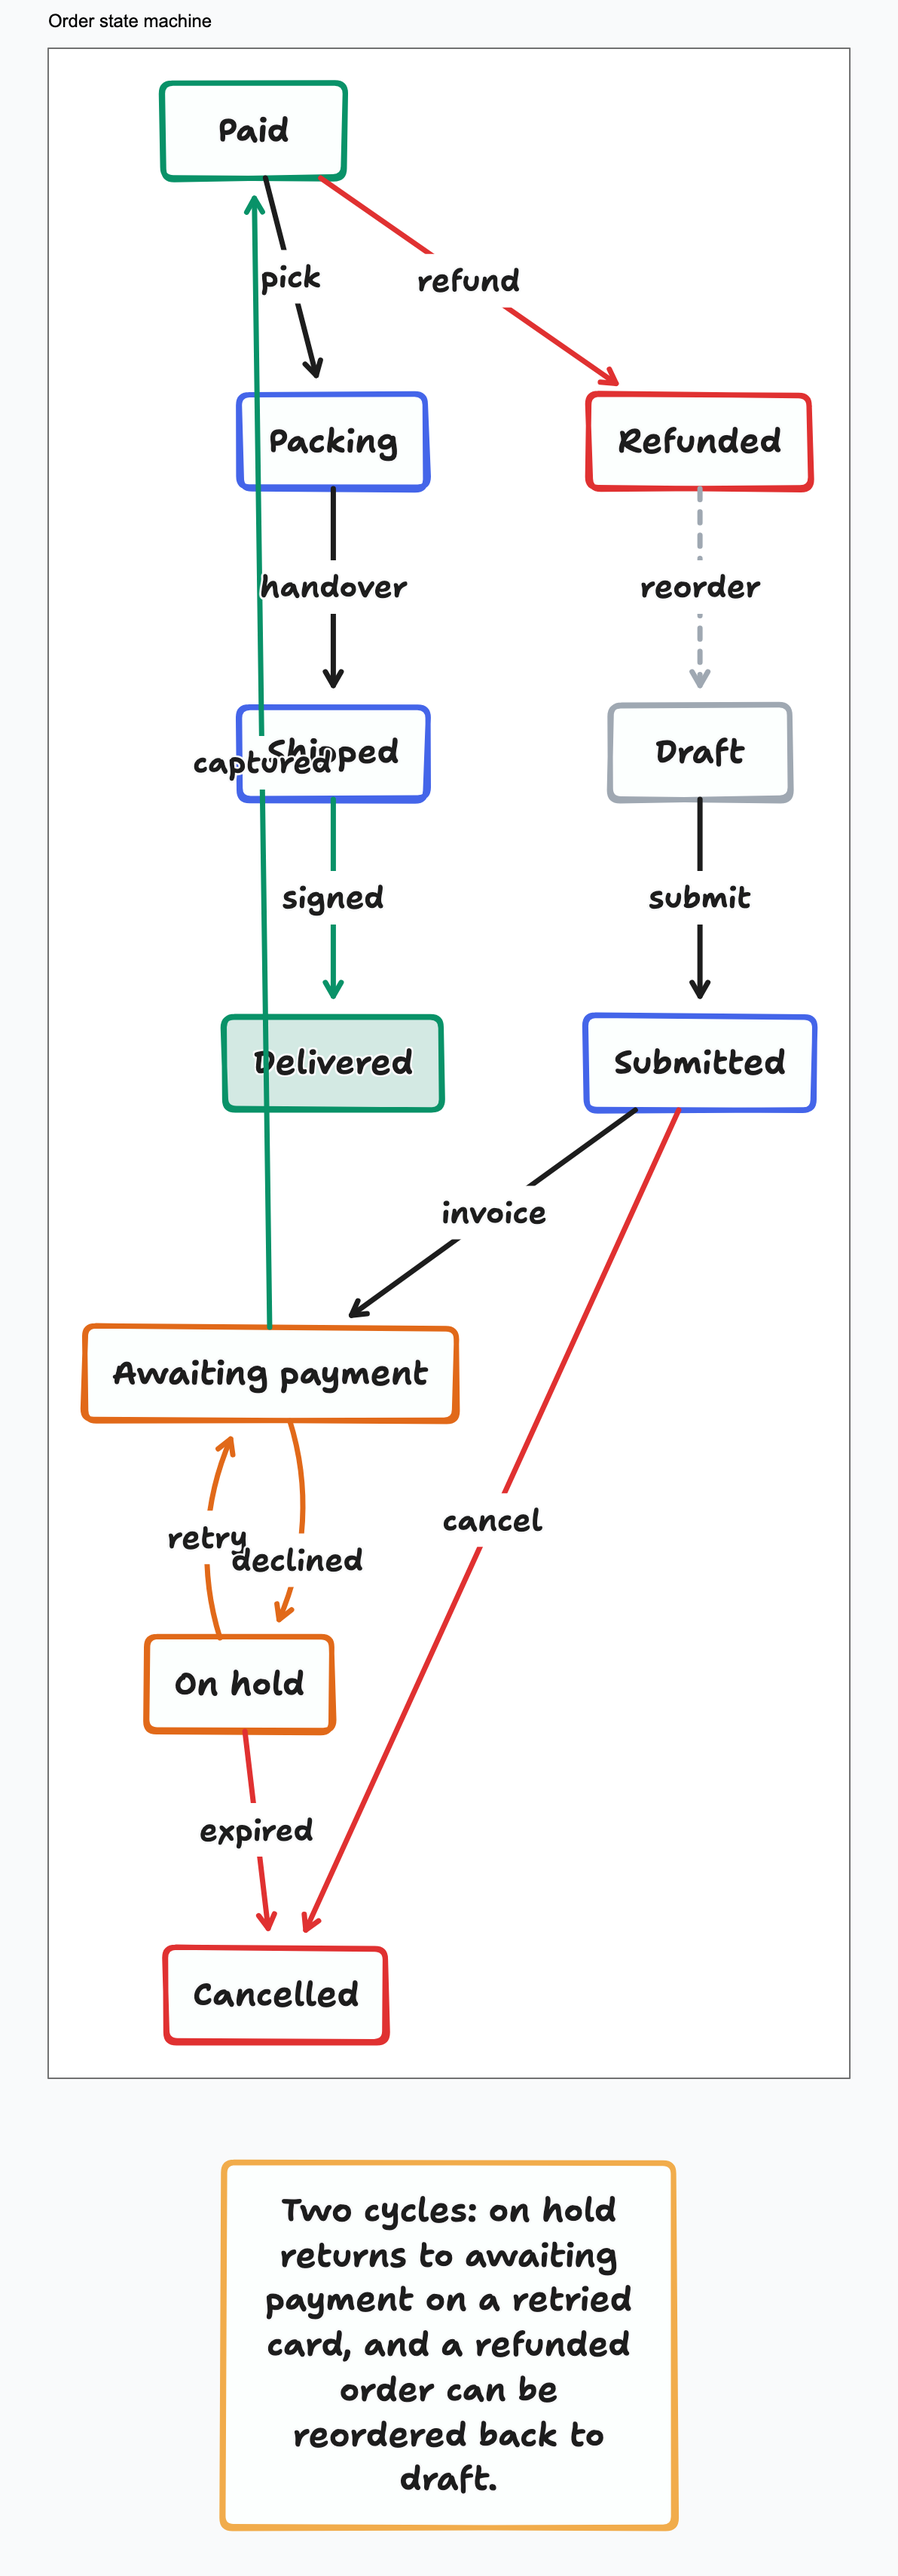
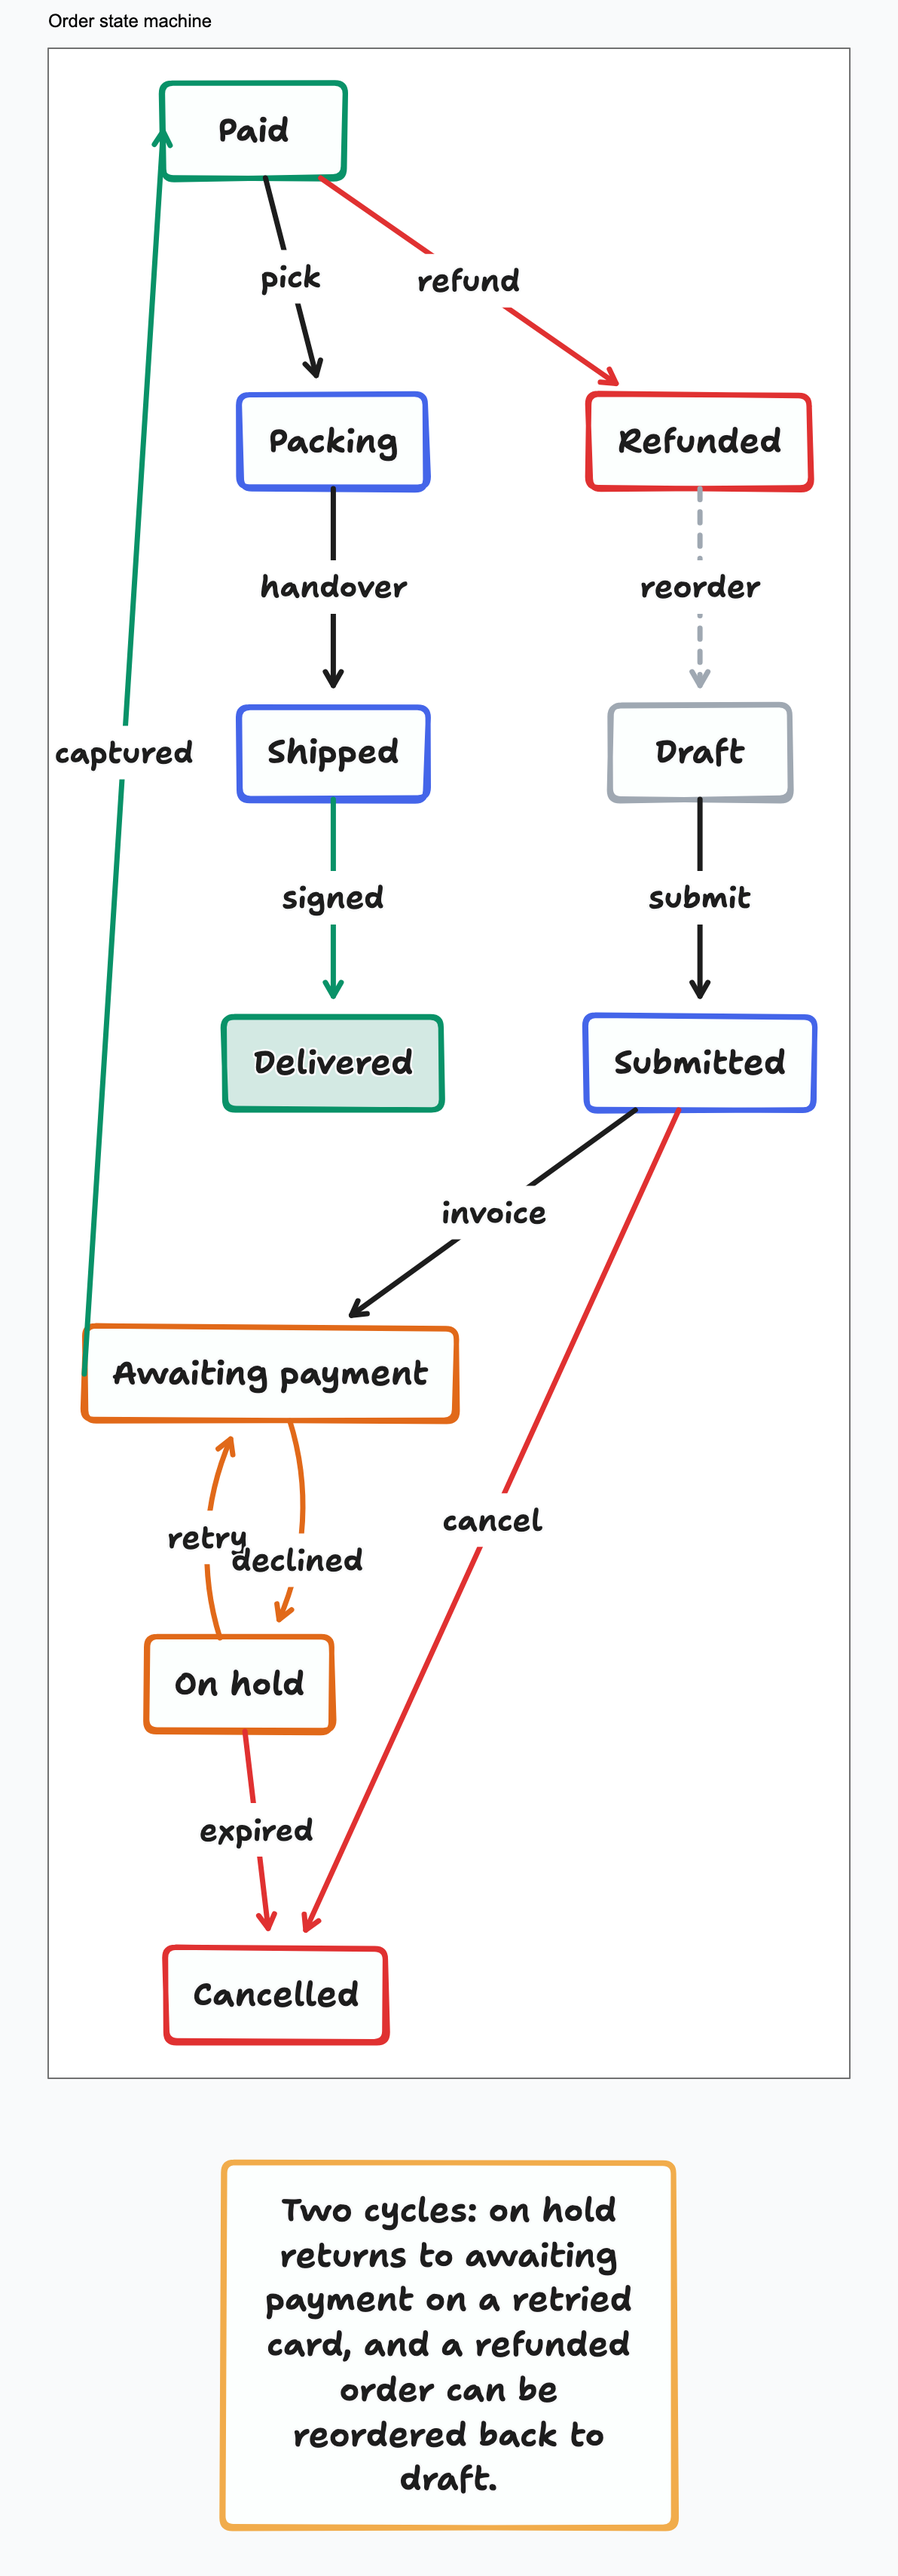
routing: a cross-container edge bows around what it used to drive through
An edge whose endpoints share no layout axis had no route at all - the
lane pass derives its axis from overlapping perpendicular bands, gets
null for a diagonal, and the arrow stayed a centre-to-centre chord. That
is 33 of the 43 arrow-vs-shape crossings across the corpus, including
`notify -> commit`'s 1,100px line through `Staging smoke tests`.

`detourAroundObstacles` takes what the earlier passes left: grow a bend
on each side until the arc clears every box and note between the two
endpoints, keep the smaller. The hit test models the circular arc tldraw
actually renders rather than the parabola `boxAt` approximates it with -
at these bends the two differ by more than the clearance margin.

The trigger is "the straight chord already runs through something", not
length or direction, which is what D21's own correction asked for: a
159px `rollback -> deploy-prod` crosses nothing, so it stays a straight
hop.

Also stop dropping a lane route's face anchors when its sag rounds below
tldraw's minimum bend. Those anchors are what lifts a row skip off the
boxes in between; without them `a -> d` in an auto container fell back to
centre bindings and drew straight through. That is D8's routing half.

Corpus + examples, 23 files: crossings 43 -> 29, label-over-shape 7 -> 5,
label-over-label 7 -> 6, crowded pairs 2 -> 2. No file rises on any
counter. Four corpus renders moved and are regenerated.

Changed region(s): [[0.0621, 0.0621, 0.3725, 0.5275], [0.0931, 0.3724, 0.1242, 0.5275], [0.1552, 0.0621, 0.1862, 0.1862]]

diff --git a/src/domain/layout/routing.ts b/src/domain/layout/routing.ts
@@ -19,6 +19,13 @@
  * different amounts instead of stacking into one stroke, the longest chord
  * taking the outermost lane. A lane's extra sag is dropped a step at a time
  * if it isn't viable (would bow into a neighbouring shape).
+ *
+ * An edge whose endpoints share no layout axis at all - the cross-container
+ * case - has no lane and no side to reason about, so `detourAroundObstacles`
+ * takes what the earlier passes left: it grows a bend on each side until the
+ * arc tldraw would actually draw clears every box and note between the two
+ * endpoints, and keeps the smaller of the two. An edge whose straight chord
+ * is already clear gets nothing, so short hops stay straight lines.
  */
 
 import type { IRDocPositioned, IREdge, IRElementPositioned } from "../ir/index.js";
@@ -99,11 +106,12 @@ export function computeEdgeRoutes(ir: IRDocPositioned): Map<string, EdgeRoute> {
   const rankOf = assignLanes(candidates);
 
   for (const candidate of candidates) {
-    const route = finalizeRoute(candidate, rankOf.get(candidate.edgeId) ?? 0);
-    if (route !== null) routes.set(candidate.edgeId, route);
+    routes.set(candidate.edgeId, finalizeRoute(candidate, rankOf.get(candidate.edgeId) ?? 0));
   }
 
   fanSharedPairs(otherEdges, byId, routes);
+
+  detourAroundObstacles(otherEdges, byId, shapes, routes);
 
   placeLabels(edges, byId, shapes, routes);
 
@@ -266,6 +274,194 @@ function fanSharedPairs(
   }
 }
 
+/** Clearance an obstacle-avoiding detour keeps between the arc and the box it swings around. */
+const DETOUR_MARGIN = 20;
+/** Minimum growth per attempt, so the search always makes progress. */
+const DETOUR_STEP = 24;
+const DETOUR_MAX_ROUNDS = 12;
+/** Points sampled along the arc when testing it against a box. */
+const DETOUR_SAMPLES = 48;
+
+/**
+ * Last resort for an edge no earlier pass claimed: if its straight chord runs
+ * through boxes it does not connect - the cross-container case of `docs/
+ * diagram-defects.md` D21, where the two endpoints share no layout axis and
+ * `computeCandidate` therefore has nothing to work with - bow it around them.
+ *
+ * Both sides are tried and the smaller detour wins; an edge whose chord is
+ * already clear (every short hop, and every long one that happens to run
+ * through empty space) is left alone, which is what keeps a 159px backwards
+ * hop a straight line. The arc is modelled as the circle tldraw actually
+ * draws through the two shape centres, not the parabola `boxAt` approximates
+ * it with, because at these bends the two differ by more than the margin.
+ */
+function detourAroundObstacles(
+  edges: IREdge[],
+  byId: Map<string, AbsShape>,
+  shapes: AbsShape[],
+  routes: Map<string, EdgeRoute>,
+): void {
+  const blockerPool = shapes.filter((s) => s.kind === "box" || s.kind === "note");
+
+  for (const edge of edges) {
+    if (routes.has(edge.id)) continue;
+    const from = byId.get(edge.from);
+    const to = byId.get(edge.to);
+    if (!from || !to) continue;
+
+    const start = centreOf(from);
+    const end = centreOf(to);
+    const blockers = blockerPool.filter((s) => s.id !== from.id && s.id !== to.id);
+    const straight = arcPolyline(start, end, 0);
+    if (!blockers.some((b) => polylineHitsBox(straight, b))) continue;
+
+    const bend = solveDetour(start, end, blockers);
+    if (bend !== null) routes.set(edge.id, { bend });
+  }
+}
+
+/** Smallest signed bend that clears every blocker, or null if neither side converges. */
+function solveDetour(start: Point, end: Point, blockers: AbsShape[]): number | null {
+  const cap = Math.hypot(end.x - start.x, end.y - start.y);
+  if (cap < 1) return null;
+
+  let best: number | null = null;
+  for (const sign of [1, -1] as const) {
+    let sag = 0;
+    let cleared = false;
+    for (let round = 0; round < DETOUR_MAX_ROUNDS; round++) {
+      const path = arcPolyline(start, end, sign * sag);
+      const hits = blockers.filter((b) => polylineHitsBox(path, b));
+      if (hits.length === 0) {
+        cleared = true;
+        break;
+      }
+      sag = Math.max(requiredDetourSag(start, end, sign, hits), sag + DETOUR_STEP);
+      if (sag > cap) break;
+    }
+    if (!cleared || sag < MIN_BEND) continue;
+    if (best === null || sag < Math.abs(best)) best = sign * sag;
+  }
+  return best === null ? null : round1(best);
+}
+
+/**
+ * Parabola estimate of the sag needed to put every corner of `hits` (inflated
+ * by the margin) on the inside of the arc. tldraw's circular arc bulges
+ * further from the chord than the parabola does at every `t`, so this is a
+ * lower bound the real arc always beats - the caller re-tests and grows again.
+ */
+function requiredDetourSag(start: Point, end: Point, sign: 1 | -1, hits: AbsShape[]): number {
+  const u = unit(start, end);
+  const perp: Point = { x: -u.y, y: u.x };
+  const len = Math.hypot(end.x - start.x, end.y - start.y);
+
+  let need = 0;
+  for (const s of hits) {
+    const xs = [s.x - DETOUR_MARGIN, s.x + s.w + DETOUR_MARGIN];
+    const ys = [s.y - DETOUR_MARGIN, s.y + s.h + DETOUR_MARGIN];
+    for (const cx of xs) {
+      for (const cy of ys) {
+        const dx = cx - start.x;
+        const dy = cy - start.y;
+        const off = (dx * perp.x + dy * perp.y) * sign;
+        if (off <= 0) continue;
+        const raw = (dx * u.x + dy * u.y) / len;
+        const t = Math.min(0.95, Math.max(0.05, raw));
+        need = Math.max(need, off / (4 * t * (1 - t)));
+      }
+    }
+  }
+  return need;
+}
+
+/** The arc `start -> end` with this bend, sampled as a polyline. */
+function arcPolyline(start: Point, end: Point, bend: number): Point[] {
+  const at = arcSampler(start, end, bend);
+  const points: Point[] = [];
+  for (let i = 0; i <= DETOUR_SAMPLES; i++) points.push(at(i / DETOUR_SAMPLES));
+  return points;
+}
+
+function polylineHitsBox(path: Point[], s: AbsShape): boolean {
+  for (let i = 1; i < path.length; i++) {
+    if (segmentHitsBox(path[i - 1]!, path[i]!, s)) return true;
+  }
+  return false;
+}
+
+/**
+ * `t -> point` along the circular arc tldraw renders for `bend` (the signed
+ * sagitta at the midpoint, measured along `(-u.y, u.x)`). Uniform in angle,
+ * which for a circle is uniform in arc length.
+ */
+function arcSampler(a: Point, b: Point, bend: number): (t: number) => Point {
+  const dx = b.x - a.x;
+  const dy = b.y - a.y;
+  const len = Math.hypot(dx, dy);
+  const lerp = (t: number): Point => ({ x: a.x + dx * t, y: a.y + dy * t });
+  if (len === 0 || Math.abs(bend) < 0.5) return lerp;
+
+  const perp: Point = { x: -dy / len, y: dx / len };
+  const radius = (len * len) / 4 / (2 * Math.abs(bend)) + Math.abs(bend) / 2;
+  const centre: Point = {
+    x: a.x + dx / 2 + perp.x * (bend - Math.sign(bend) * radius),
+    y: a.y + dy / 2 + perp.y * (bend - Math.sign(bend) * radius),
+  };
+  const a0 = Math.atan2(a.y - centre.y, a.x - centre.x);
+  const a1 = Math.atan2(b.y - centre.y, b.x - centre.x);
+  let delta = a1 - a0;
+  while (delta > Math.PI) delta -= 2 * Math.PI;
+  while (delta <= -Math.PI) delta += 2 * Math.PI;
+
+  // Two sweeps join the endpoints; keep the one that runs through the apex.
+  const apex: Point = { x: a.x + dx / 2 + perp.x * bend, y: a.y + dy / 2 + perp.y * bend };
+  const distToApex = (d: number): number => {
+    const ang = a0 + d / 2;
+    return Math.hypot(centre.x + radius * Math.cos(ang) - apex.x, centre.y + radius * Math.sin(ang) - apex.y);
+  };
+  const other = delta > 0 ? delta - 2 * Math.PI : delta + 2 * Math.PI;
+  const sweep = distToApex(other) < distToApex(delta) ? other : delta;
+
+  return (t: number) => {
+    const ang = a0 + sweep * t;
+    return { x: centre.x + radius * Math.cos(ang), y: centre.y + radius * Math.sin(ang) };
+  };
+}
+
+/** Liang-Barsky segment/rect clip - same rule `tools/arrow-truth.mts` counts crossings with. */
+function segmentHitsBox(p: Point, q: Point, s: AbsShape): boolean {
+  const dx = q.x - p.x;
+  const dy = q.y - p.y;
+  const checks: [number, number][] = [
+    [-dx, p.x - s.x],
+    [dx, s.x + s.w - p.x],
+    [-dy, p.y - s.y],
+    [dy, s.y + s.h - p.y],
+  ];
+  let t0 = 0;
+  let t1 = 1;
+  for (const [pk, qk] of checks) {
+    if (pk === 0) {
+      if (qk < 0) return false;
+      continue;
+    }
+    const r = qk / pk;
+    if (pk < 0) {
+      if (r > t1) return false;
+      if (r > t0) t0 = r;
+    } else {
+      if (r < t0) return false;
+      if (r < t1) t1 = r;
+    }
+  }
+  return t0 <= t1;
+}
+
+function centreOf(s: AbsShape): Point {
+  return { x: s.x + s.w / 2, y: s.y + s.h / 2 };
+}
+
 function assignLanes(candidates: RouteCandidate[]): Map<string, number> {
   const groups = new Map<string, RouteCandidate[]>();
   for (const c of candidates) {
@@ -299,7 +495,7 @@ function assignLanes(candidates: RouteCandidate[]): Map<string, number> {
   return rankOf;
 }
 
-function finalizeRoute(candidate: RouteCandidate, assignedRank: number): EdgeRoute | null {
+function finalizeRoute(candidate: RouteCandidate, assignedRank: number): EdgeRoute {
   const { axis, side, baseSag, gap, slack, startPoint, endPoint } = candidate;
 
   let rank = assignedRank;
@@ -313,11 +509,11 @@ function finalizeRoute(candidate: RouteCandidate, assignedRank: number): EdgeRou
   const sideDir = sideDirection(axis, side);
   const sign = p.x * sideDir.x + p.y * sideDir.y >= 0 ? 1 : -1;
 
+  // A sag under tldraw's MIN_ARROW_BEND renders straight, but the face anchors
+  // still matter: they are what lifts the chord off the boxes in between.
   const bend = round1(sag * sign);
-  if (Math.abs(bend) < MIN_BEND) return null;
-
   const anchor = normalizedAnchor(axis, side);
-  return { bend, startAnchor: anchor, endAnchor: { ...anchor } };
+  return { bend: Math.abs(bend) < MIN_BEND ? 0 : bend, startAnchor: anchor, endAnchor: { ...anchor } };
 }
 
 function collect(ir: IRDocPositioned): { shapes: AbsShape[]; edges: IREdge[] } {

diff --git a/src/domain/layout/routing.test.ts b/src/domain/layout/routing.test.ts
@@ -105,20 +105,25 @@ describe("computeEdgeRoutes", () => {
     expect(routes.get("ab")).toBeUndefined();
   });
 
-  it("stays straight when boxed in on both sides (no viable side)", () => {
+  it("swings wide when the lane pass finds no viable side", () => {
     const ir = doc("root", [
       box({ id: "a", x: 0, y: 0, w: 100, h: 50 }),
       box({ id: "b", x: 150, y: 0, w: 100, h: 50 }),
       box({ id: "c", x: 300, y: 0, w: 100, h: 50 }),
       box({ id: "d", x: 450, y: 0, w: 100, h: 50 }),
       // Squeezed in just above and below the row - not enough clearance
-      // for the 13.5 sag the chord over b/c would otherwise need.
+      // for the 13.5 sag the chord over b/c would otherwise need, so the
+      // lane pass declines and the detour pass bows right past them.
       box({ id: "top", x: 200, y: -30, w: 50, h: 20 }),
       box({ id: "bottom", x: 200, y: 60, w: 50, h: 20 }),
       edge({ id: "ad", from: "a", to: "d" }),
     ]);
     const routes = computeEdgeRoutes(ir);
-    expect(routes.get("ad")).toBeUndefined();
+    const route = routes.get("ad");
+    expect(route).toBeDefined();
+    // Past `bottom`'s far edge (y 80) rather than the 13.5 the row alone wanted.
+    expect(Math.abs(route!.bend)).toBeGreaterThan(60);
+    expect(route!.startAnchor).toBeUndefined();
   });
 
   it("signed clearance ignores a crossed shape sitting entirely on the far side of the anchored chord", () => {
@@ -321,6 +326,54 @@ describe("computeEdgeRoutes", () => {
     expect(routes.get("ab")).toBeUndefined();
   });
 
+  describe("detour around obstacles", () => {
+    it("bows a diagonal edge around the box its straight chord runs through", () => {
+      const ir = doc("root", [
+        frame({ id: "top", x: 0, y: 0, w: 500, h: 100, children: [box({ id: "a", x: 20, y: 20, w: 100, h: 50 })] }),
+        frame({
+          id: "middle",
+          x: 0,
+          y: 200,
+          w: 500,
+          h: 100,
+          children: [box({ id: "mid", x: 150, y: 20, w: 120, h: 50 })],
+        }),
+        frame({
+          id: "bottom",
+          x: 0,
+          y: 400,
+          w: 500,
+          h: 100,
+          children: [box({ id: "z", x: 300, y: 20, w: 100, h: 50 })],
+        }),
+        edge({ id: "az", from: "a", to: "z" }),
+      ]);
+      const routes = computeEdgeRoutes(ir);
+      const route = routes.get("az");
+      expect(route).toBeDefined();
+      expect(Math.abs(route!.bend)).toBeGreaterThanOrEqual(8);
+      // Centre bindings: the detour never re-anchors, it only bends.
+      expect(route!.startAnchor).toBeUndefined();
+      expect(route!.endAnchor).toBeUndefined();
+    });
+
+    it("leaves a long diagonal edge alone when its chord already runs through empty space", () => {
+      const ir = doc("root", [
+        frame({ id: "top", x: 0, y: 0, w: 900, h: 100, children: [box({ id: "a", x: 20, y: 20, w: 100, h: 50 })] }),
+        frame({
+          id: "bottom",
+          x: 0,
+          y: 800,
+          w: 900,
+          h: 100,
+          children: [box({ id: "z", x: 700, y: 20, w: 100, h: 50 })],
+        }),
+        edge({ id: "az", from: "a", to: "z" }),
+      ]);
+      expect(computeEdgeRoutes(ir).get("az")).toBeUndefined();
+    });
+  });
+
   describe("label placement", () => {
     it("slides two labels spanning the same gap apart when their midpoint boxes would overlap", () => {
       const ir = doc("root", [
@@ -338,10 +391,12 @@ describe("computeEdgeRoutes", () => {
     });
 
     it("slides a label off a foreign box sitting at its geometric midpoint", () => {
+      // The obstacle is a wall far wider than the chord, so no detour bend
+      // gets around it and the label is the only thing left to move.
       const ir = doc("root", [
         box({ id: "a", x: 0, y: 0, w: 100, h: 50 }),
         box({ id: "d", x: 300, y: 300, w: 100, h: 50 }),
-        box({ id: "obstacle", x: 150, y: 125, w: 100, h: 100 }),
+        box({ id: "obstacle", x: -800, y: 125, w: 2000, h: 100 }),
         edge({ id: "ad", from: "a", to: "d", label: "build" }),
       ]);
       const routes = computeEdgeRoutes(ir);

diff --git a/docs/diagram-defects.md b/docs/diagram-defects.md
@@ -392,9 +392,11 @@ blocker.
 - **Status:** label half fixed in T37 (repro 2 label-over-shape pairs -> 1,
   `examples/tcp-states` 4 -> 2 and its 2 label-label collisions -> 0). An auto
   container still reserves no space for a label; what changed is that the label
-  moves to where the space already is. The routing half - the adapter discards
-  ELK's routed geometry, so a transition still crosses whatever is between its
-  endpoints - stays open with D21.
+  moves to where the space already is. The routing half moved in T42 with D21:
+  the repro's `a -> d` goes 2 crossings / 2 crowded pairs -> 0 / 0 and
+  `examples/tcp-states` 5 crossings -> 4. Nothing new is asked of ELK - the
+  arrow keeps the face anchors the obstacle pass already computed instead of
+  dropping them whenever the sag rounded below tldraw's minimum bend.
 
 ### D9. An edge label wraps mid-word, and the row's label clearance is short by ~50px
 
@@ -723,4 +725,19 @@ blocker.
   survivable while it runs with the layout axis over a short span, and a
   backwards edge is simply the reliable way to produce a long one.
 - **Repro:** `examples/repro/d21-backward-edge-is-a-chord.tldsl.jsx`
-- **Status:** open
+- **Status:** mostly fixed in T42. An edge whose endpoints share no layout axis
+  now gets a detour pass: grow a bend on each side until the arc tldraw would
+  actually draw clears every box and note between the two endpoints, keep the
+  smaller. `notify -> commit` crosses nothing (it rises out of `notify` and
+  slips through the 64px gap between `Staging smoke tests` and `Deploy to
+  production` instead of driving through the former), the repro
+  goes 1 crossing -> 0, and across the 23 measured files crossings go 43 -> 29
+  with no file rising on any counter. The correction in this entry drives the
+  trigger: an edge whose straight chord is already clear gets nothing, so
+  `rollback -> deploy-prod` is still a 159px straight hop. What is left is the
+  case an arc cannot express: `quality-gate -> notify` and `approval -> notify`
+  cross the full-width `cd` row at a slant, so no single arc stays inside a
+  64px gap for the row's whole 320px height the way the near-vertical
+  `notify -> commit` does, and swinging round either end of the row needs a
+  sagitta 2-4x the chord - a swoop far worse to look at than the chord. Those
+  4 crossings stay; they are a placement problem, not a routing one.
